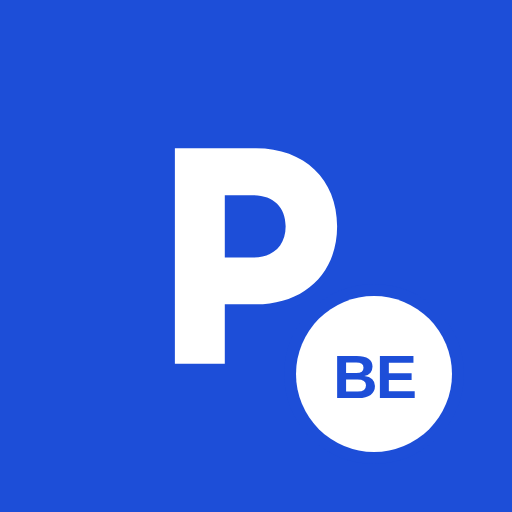
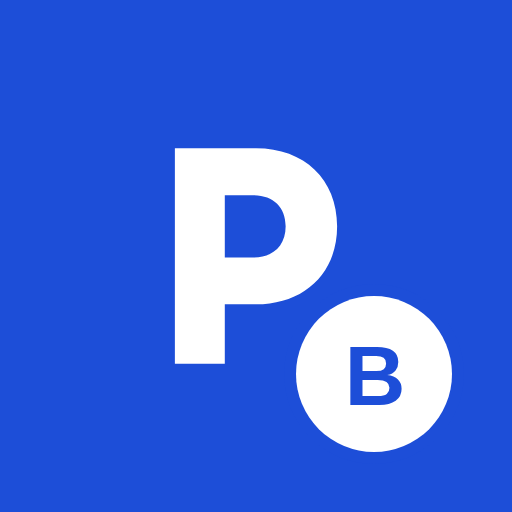
Kfz-Kennzeichen statt Laendercode: Berlin ist B, nicht BE
Auf den Gruppenbildern und in den Telegram-Namen steht jetzt das Unterscheidungszeichen - B fuer Berlin, HH fuer Hamburg. Das ist das, was auf jedem Auto steht, und die App handelt von Autos. @knoellchenfrei_BE heisst entsprechend @knoellchenfrei_B.

Ausdruecklich NICHT geaendert: Land in core/holidays.ts. Dort heisst Berlin BE, weil das der ISO-Code des Bundeslands ist und der Feiertagskalender daran haengt. Zwei Kuerzel fuer dieselbe Stadt, die Verschiedenes meinen - ein B im Feiertagskalender waere ein Fehler, ein BE auf dem Gruppenbild waere falsches Deutsch fuer Autofahrer. Der Unterschied steht jetzt in marke.md und im Kopf von make-brand.mjs, damit ihn niemand spaeter glattbuegelt.

Ein Zeichen darf dabei groesser stehen als zwei: B auf 84, HH auf 62 - sonst sieht der einzelne Buchstabe verloren aus in einem Kreis, der fuer zwei bemessen ist.

Claude-Session: https://claude.ai/code/session_019V7Wkw6LxEt3Lq3ocaDrHe

Changed region(s): [[0.6562, 0.6562, 0.8125, 0.8125]]

diff --git a/docs/marke.md b/docs/marke.md
@@ -15,7 +15,7 @@ cd app/apps/web && node scripts/make-brand.mjs
 | `brand/social-preview-1280x640.png` | „Social preview" des Repositories, taugt auch als `og:image` | 1280 × 640 |
 | `brand/telegram-dach-512.png` | Gruppe `@knoellchenfrei` | 512 × 512 |
 | `brand/telegram-bot-512.png` | Bot `@knoellchenfrei_bot` | 512 × 512 |
-| `brand/telegram-berlin-512.png` | Gruppe `@knoellchenfrei_BE` | 512 × 512 |
+| `brand/telegram-berlin-512.png` | Gruppe `@knoellchenfrei_B` | 512 × 512 |
 | `brand/telegram-hamburg-512.png` | Gruppe `@knoellchenfrei_HH` | 512 × 512 |
 | `brand/*.svg` | Die Quellen dazu | — |
 
@@ -33,11 +33,19 @@ nicht nach Zuschnitt aus, sondern nach einem schlecht gezeichneten Buchstaben.
 | --- | --- | --- |
 | **Dach** `@knoellchenfrei` | blaue Fläche, weißes P | die Marke selbst |
 | **Bot** `@knoellchenfrei_bot` | dunkle Fläche, weißes P | Auf 24 Pixeln trägt nur ein Helligkeitswechsel. **Nicht weiß**, obwohl das der naheliegende Gegenpol wäre: In einer hellen Chatliste hätte ein weißes Bild keinen Rand, und das P schwebte ohne Fläche. |
-| **Berlin** `@knoellchenfrei_BE` | Marke plus Kürzel `BE` | Klein verschmilzt das Kürzel zu einem Punkt und stört nicht; groß beantwortet es die Frage, in welcher Gruppe man ist. |
-| **Hamburg** `@knoellchenfrei_HH` | Marke plus Kürzel `HH` | dasselbe |
+| **Berlin** `@knoellchenfrei_B` | Marke plus Kennzeichen `B` | Klein verschmilzt das Kürzel zu einem Punkt und stört nicht; groß beantwortet es die Frage, in welcher Gruppe man ist. |
+| **Hamburg** `@knoellchenfrei_HH` | Marke plus Kennzeichen `HH` | dasselbe |
 
 Ausgeschriebene Städtenamen wären bei dieser Größe unlesbar — ein Wort, das
-niemand entziffert, ist Dekoration. Das Kürzel sitzt in einem Kreis mit einem
+niemand entziffert, ist Dekoration.
+
+**Das Kfz-Kennzeichen, nicht der Ländercode.** Berlin ist `B`, Hamburg `HH` —
+das, was auf jedem Auto steht, und die App handelt von Autos. **Nicht zu
+verwechseln** mit `Land` in `core/holidays.ts`: Dort heißt Berlin `BE`, weil
+das der ISO-Code des Bundeslands ist und der Feiertagskalender daran hängt.
+Zwei Kürzel für dieselbe Stadt, und sie meinen Verschiedenes — ein `B` im
+Feiertagskalender wäre ein Fehler, ein `BE` auf dem Gruppenbild wäre falsches
+Deutsch für Autofahrer. Das Kürzel sitzt in einem Kreis mit einem
 Ring in der Flächenfarbe; der erste Entwurf hatte ihn auf dem Schaft des P
 sitzen, und die zwei Buchstaben liefen rechts aus ihm heraus.
 
@@ -148,7 +156,7 @@ stehen, nicht danach. FreiFahren macht es mit einem Stadtkürzel:
 | Name | Rolle |
 | --- | --- |
 | `@knoellchenfrei` | Dach: Ankündigungen, alle Städte |
-| `@knoellchenfrei_BE` | Community Berlin |
+| `@knoellchenfrei_B` | Community Berlin |
 | `@knoellchenfrei_HH` | Community Hamburg |
 | `@knoellchenfrei_bot` | Meldebot, Stufe 1 aus [todo.md](todo.md#6-telegram--du-token-dann-ich) |
 

diff --git a/docs/entscheidungen.md b/docs/entscheidungen.md
@@ -193,8 +193,10 @@ Beiträge daranhängt. Das ist derselbe Grund, aus dem die App noch `noindex`
 ausliefert.
 
 **Das Schema steht vor dem ersten Namen**, weil andere Städte kommen.
-FreiFahren macht es mit einem Stadtkürzel — `@FreiFahren_BE`. Hier genauso:
-`@knoellchenfrei` als Dach, `@knoellchenfrei_BE` und `@knoellchenfrei_HH` je
+FreiFahren macht es mit einem Stadtkürzel — `@FreiFahren_BE`. Hier genauso,
+aber mit dem **Kfz-Kennzeichen** statt dem Ländercode: Die App handelt von
+Autos, und ein Unterscheidungszeichen ist das, was auf jedem davon steht.
+`@knoellchenfrei` als Dach, `@knoellchenfrei_B` und `@knoellchenfrei_HH` je
 Stadt, `@knoellchenfrei_bot` für den Meldeweg. Ein Name ohne Schema müsste bei
 der dritten Stadt umbenannt werden, und ein umbenannter Telegram-Link ist ein
 toter Link in jedem Beitrag, der ihn je geteilt hat.

diff --git a/docs/todo.md b/docs/todo.md
@@ -351,7 +351,7 @@ Zweistufig, weil Stufe 2 ohne Stufe 1 nichts hat, wohin sie schreiben könnte:
       6. September angelegt; welche der vier Namen damit belegt sind, kann ich
       nicht nachsehen — Telegram ist von hier aus nicht erreichbar, und ich
       trage nur ein, was ich geprüft habe. Offen bleiben nach meinem Stand:
-      `@knoellchenfrei` (Dach), `@knoellchenfrei_BE`, `@knoellchenfrei_HH`,
+      `@knoellchenfrei` (Dach), `@knoellchenfrei_B`, `@knoellchenfrei_HH`,
       `@knoellchenfrei_bot`. Am 6. September 2026 waren alle vier frei.
       **Nicht als leere Hülle:** Telegram behält sich ausdrücklich vor, Namen
       ungenutzter Kanäle zurückzuholen — also anlegen, benennen, ein paar Leute
